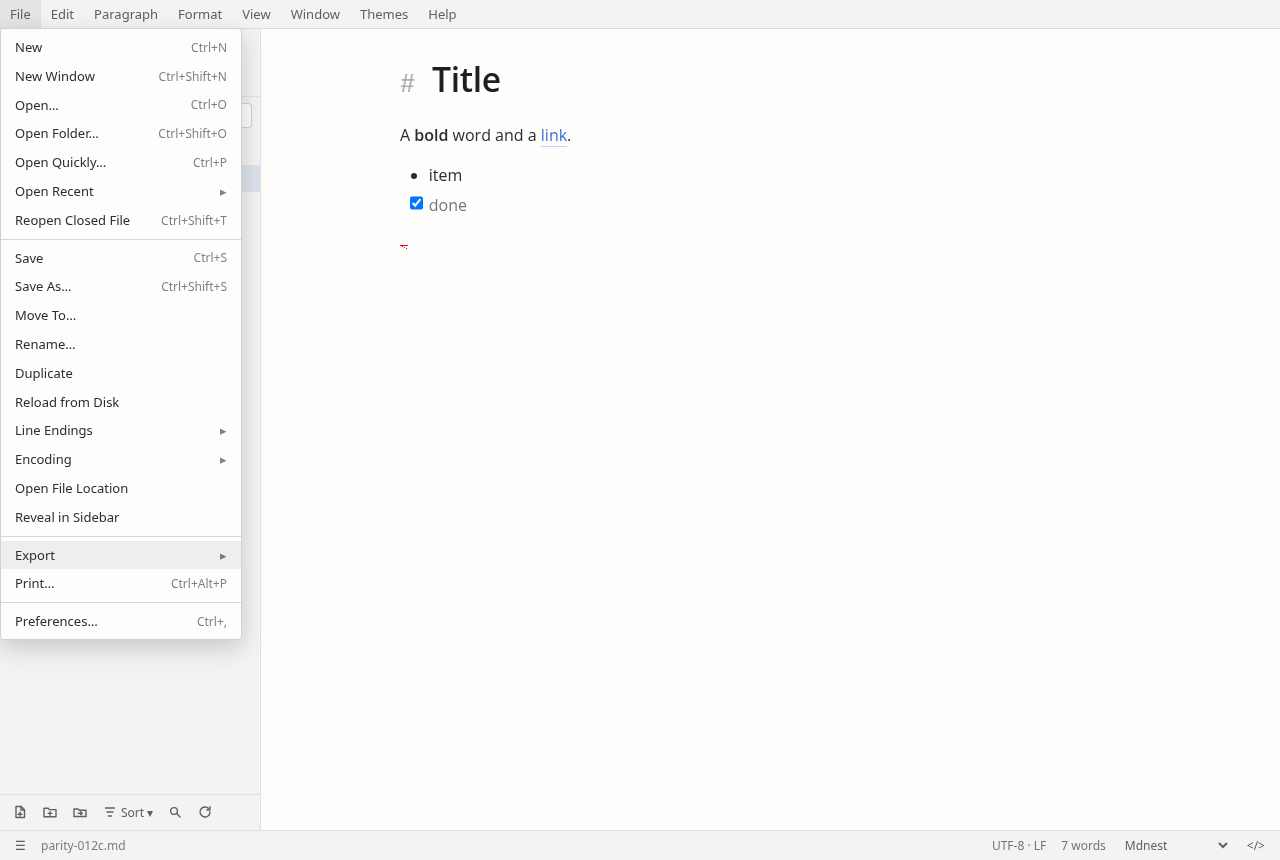
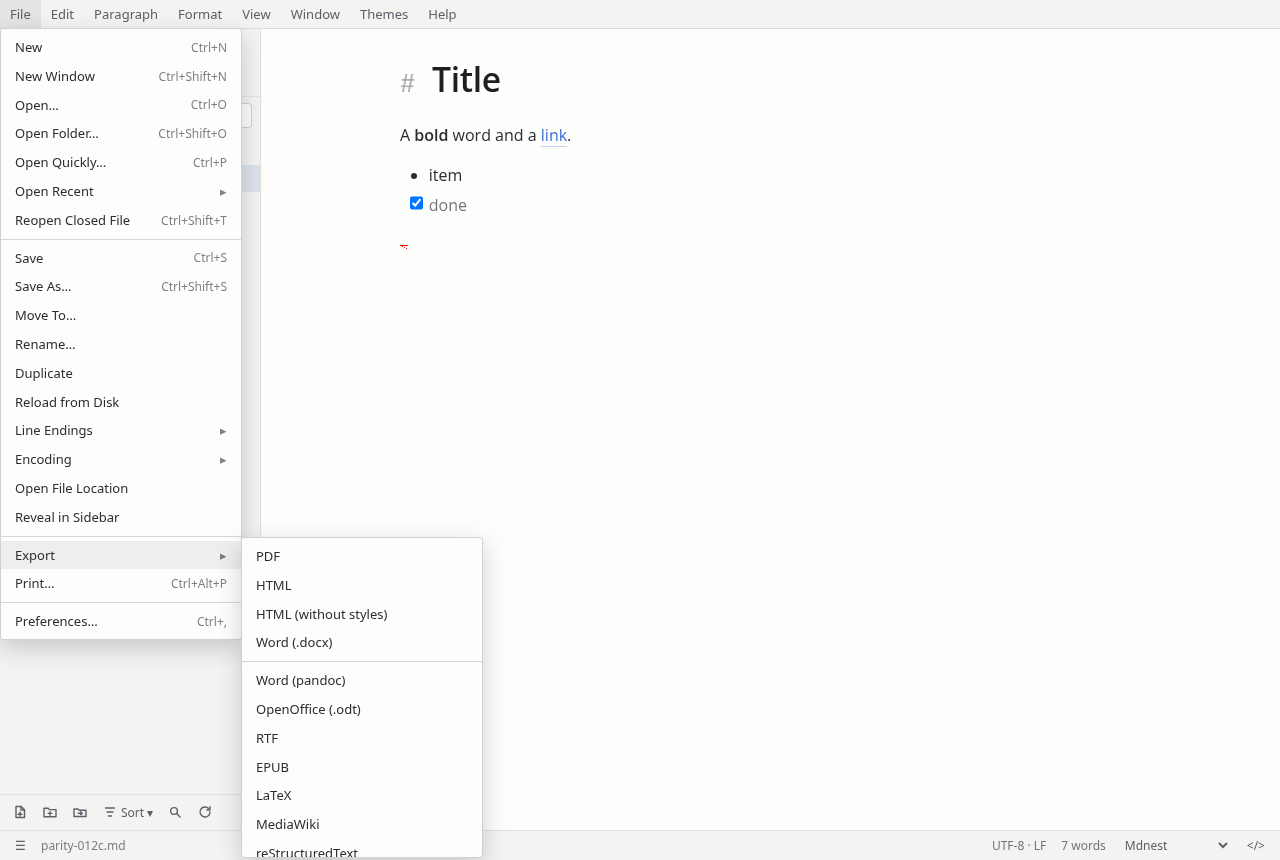
Fix HTML menubar flyouts and hide the pandoc version console
An ID selector kept every menubar submenu hidden; flyouts are now shown and
placed with fixed coordinates so the scrolling dropdown cannot clip them.
pandoc --version runs with CREATE_NO_WINDOW on Windows. The C2 suite now
asserts the Export flyout is visible beside the row.

Changed region(s): [[0.1875, 0.786, 0.375, 1.0], [0.1875, 0.6349, 0.3125, 0.7558]]

diff --git a/src/shell/menu.ts b/src/shell/menu.ts
@@ -578,6 +578,22 @@ function renderNode(node: MenuNode, run: (id: string) => void, closeAll: () => v
     sub.className = "dropdown-menu mdn-submenu";
     sub.append(...node.submenu.map((n) => renderNode(n, run, closeAll, mac)));
     row.appendChild(sub);
+    // The parent dropdown scrolls (max-height), which would clip an absolutely
+    // positioned flyout; place it with fixed coordinates beside the row instead.
+    const place = () => {
+      const r = row.getBoundingClientRect();
+      sub.style.position = "fixed";
+      sub.style.left = `${Math.round(r.right)}px`;
+      sub.style.top = `${Math.round(r.top - 4)}px`;
+      sub.style.maxHeight = `${Math.max(120, window.innerHeight - r.top - 8)}px`;
+      requestAnimationFrame(() => {
+        const s = sub.getBoundingClientRect();
+        if (s.right > window.innerWidth) sub.style.left = `${Math.max(0, Math.round(r.left - s.width))}px`;
+        if (s.bottom > window.innerHeight) sub.style.top = `${Math.max(0, Math.round(window.innerHeight - s.height - 4))}px`;
+      });
+    };
+    row.addEventListener("mouseenter", place);
+    row.addEventListener("focusin", place);
     return row;
   }
   const row = document.createElement("button");

diff --git a/src/styles/base.css b/src/styles/base.css
@@ -29,6 +29,7 @@ body.mdn-menubar-on #mdn-menubar { display: flex; position: fixed; top: 0; left:
 .mdn-menu-sep { height: 1px; margin: 4px 0; background: rgba(127,127,127,.3); }
 .mdn-menu-sub > .mdn-submenu { display: none; top: -4px; left: 100%; }
 .mdn-menu-sub:hover > .mdn-submenu, .mdn-menu-sub:focus-within > .mdn-submenu { display: block; }
+#mdn-menubar .mdn-menu-sub:hover > .mdn-submenu, #mdn-menubar .mdn-menu-sub:focus-within > .mdn-submenu { display: block; }
 .mdn-menu-caret { opacity: .6; }
 body.mdn-menubar-on #typora-sidebar { top: var(--menubar-height); }
 body.mdn-menubar-on content, body.mdn-menubar-on #typora-source { top: var(--menubar-height); }

diff --git a/src-tauri/src/commands.rs b/src-tauri/src/commands.rs
@@ -490,7 +490,15 @@ fn which_on_path(name: &str) -> Option<std::path::PathBuf> {
 }
 
 fn pandoc_version_line(bin: &std::path::Path) -> String {
-    let Ok(out) = std::process::Command::new(bin).arg("--version").output() else {
+    let mut cmd = std::process::Command::new(bin);
+    cmd.arg("--version");
+    #[cfg(windows)]
+    {
+        use std::os::windows::process::CommandExt;
+        const CREATE_NO_WINDOW: u32 = 0x08000000;
+        cmd.creation_flags(CREATE_NO_WINDOW);
+    }
+    let Ok(out) = cmd.output() else {
         return String::new();
     };
     let text = String::from_utf8_lossy(&out.stdout);
